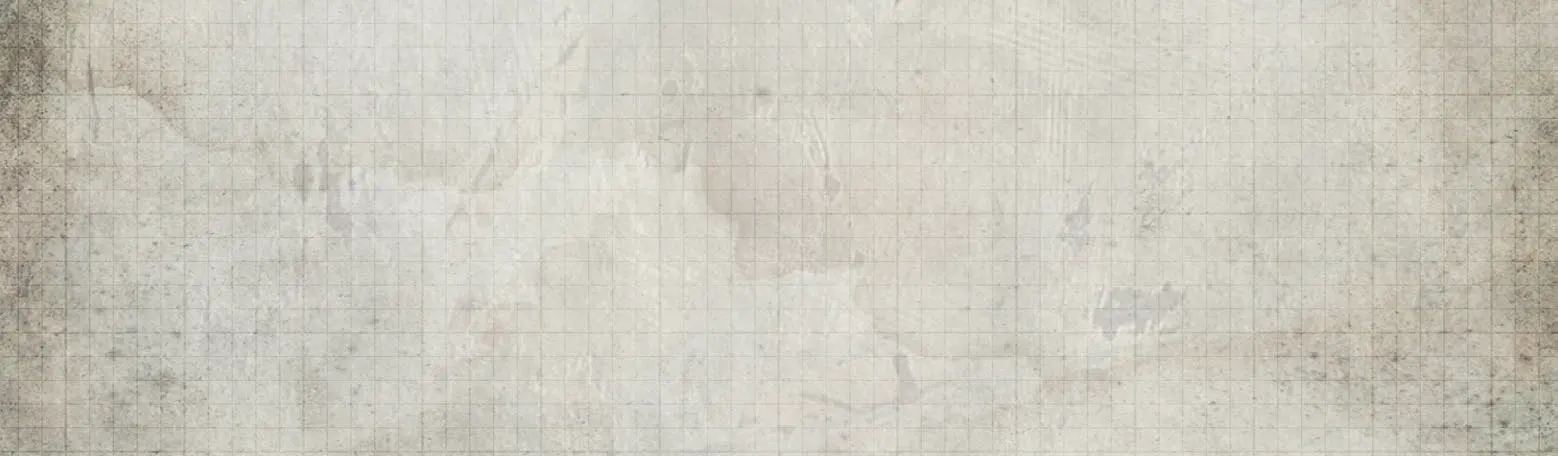
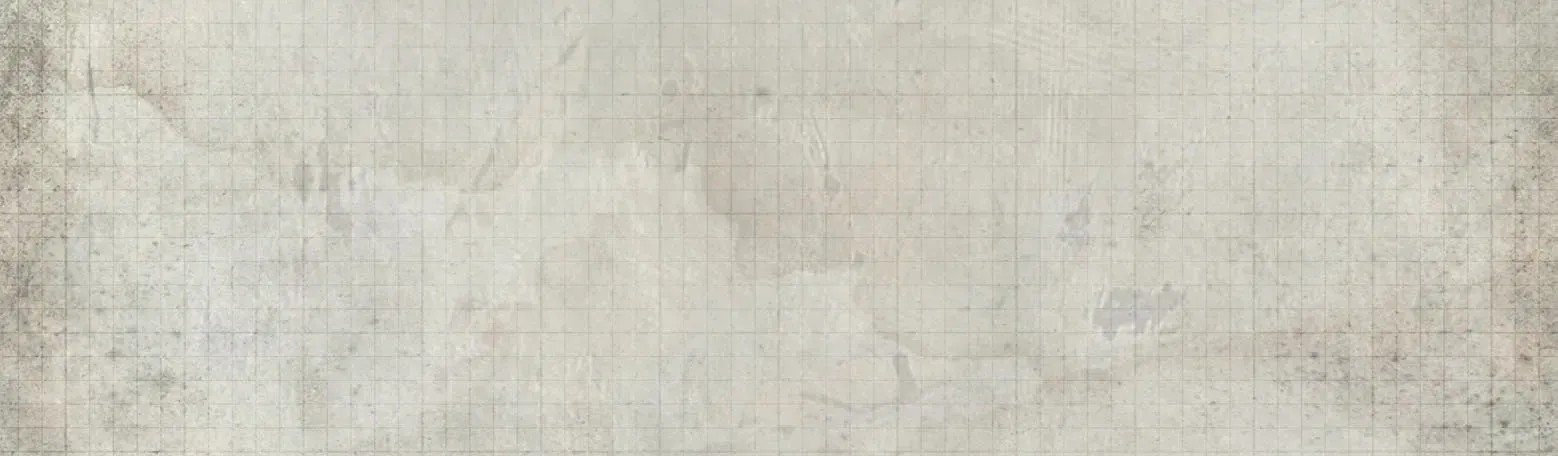
add various embeds, css tweaks, other fixes

diff --git a/style/theme/_var.scss b/style/theme/_var.scss
@@ -497,6 +497,9 @@ body.impmal-scan {
       font-size: var(--font-size-18);
       font-weight: bold;
       color: white;
+      td {
+        color: white;
+      }
     }
 
     tbody {
@@ -538,9 +541,21 @@ body.impmal-scan {
 @mixin box-text() { 
   section.box-text {
     outline: 3px solid var(--impmal-grey);
-    border: 20px solid transparent;
-    border-image: url(./assets/ui/box-corners.webp);
-    border-image-slice: 10% 10%;
+    
+    &:not(.no-corners)
+    {
+      border: 20px solid transparent;
+      border-image: url(./assets/ui/box-corners.webp);
+      border-image-slice: 363 390 445 400;
+      border-image-width: 40px;
+
+    }
+
+    &.no-corners {
+      padding: 20px;
+    }
+
+
     color: white;
     background: url(./assets/ui/box-background.webp) repeat;
     margin: 10px;
@@ -581,9 +596,29 @@ body.impmal-scan {
       background: url(./assets/ui/box-background-light.webp) repeat;
       background-size: contain;
       padding: 5px;
-      border: 20px solid transparent;
-      border-image: url(./assets/ui/box-corners-light.webp);
-      border-image-slice: 10% 10%;
+      box-shadow: 0px 0px 10px  black;
+
+      &:not(.no-corners)
+      {
+        border: 20px solid transparent;
+        border-image: url(./assets/ui/box-corners-light.webp);
+        border-image-slice: 372 427 427 445;
+        border-image-width: 40px;
+        border-image-outset: 3px;
+      }
+
+      &.servo-border {
+        border-image: url(./assets/ui/box-border-servo.webp);
+        border-image-width: 60px;
+        border-image-slice:   110 88 100 84;
+        margin: 20px;
+        border-image-outset: 15px 24px;
+      }
+
+      &.no-corners {
+        padding: 20px;
+      }
+  
 
       &.blue {
         border-image: none;
@@ -593,14 +628,21 @@ body.impmal-scan {
         color: var(--impmal-lightblue)
       }
 
+      &.grid-alt,
       &.grid {
         background: url(./assets/ui/grid-bg.webp) repeat;
+        background-size: contain;
         .box-header,
         h1,h2,h3,h4,h5 {
           color: black;
           font-weight: normal;
           text-align: center;
         }
+      }
+
+      &.grid-alt {
+        background: url(./assets/ui/grid-bg-alt.webp) repeat;
+        background-size: contain;
       }
 
       .box-header {
@@ -756,7 +798,8 @@ body.impmal-scan {
   h6 {
     margin: 0 0 0.5rem;
     font-family: "Novarese";
-    font-size: var(--font-size-18);
+    font-size: var(--font-size-16);
+    color: rgb(52, 150, 151);
   }
 
   .blue {
@@ -770,14 +813,21 @@ body.impmal-scan {
 
 
   section.hook {
-    background-clip: padding-box;
-    padding: 10px;
-    border-top: 20px solid transparent;
-    border-image: url(./assets/ui/hook-top.webp);
-    border-image-slice: 100 0% 0% 0%;
+    // padding: 10px;
+    // border-top: 20px solid transparent;
+    // border-image: url(./assets/ui/hook-top.webp);
+    // border-image-slice: 133 0% 0% 0%;
+    // filter: drop-shadow(5px 5px 8px black);
+    // margin: 10px;
+    // background: url(./assets/ui/hook-bg.webp);
+
+    border-image-source: url(./assets/ui/hook-bg-test.webp);
+    border-image-slice: 55 115 159 115 fill;
+    border-image-width: 20px 40px 20px 40px;
+    padding: 1.5rem 2rem;
     filter: drop-shadow(5px 5px 8px black);
-    margin: 10px;
-    background: url(./assets/ui/hook-bg.webp);
+    margin-bottom: 1rem;
+    
 
     .hook-title {
       font-weight: bold;
@@ -785,6 +835,8 @@ body.impmal-scan {
       text-align: center;
       font-family: "Novarese";
       font-size: var(--font-size-24);
+      color: black;
+
     }
 
   }

diff --git a/src/model/actor/standard.js b/src/model/actor/standard.js
@@ -256,10 +256,10 @@ export class StandardActorModel extends BaseActorModel
         this.parent.update({"system.combat.action" : action}, {showActionText : !effectAdded});
     }
 
-    async applyDamage(value, {ignoreAP=false, location="roll", message=false, opposed, update=true, context={}}={})
+    async applyDamage(value, {ignoreAP=false, location="roll", message=false, opposed, update=true, context={}, traits=null}={})
     {   
         let modifiers = [];
-        let traits = opposed?.attackerTest?.itemTraits;
+        traits = traits ?? opposed?.attackerTest?.itemTraits;
         let locationKey;
         if (typeof location == "string")
         {
@@ -286,6 +286,7 @@ export class StandardActorModel extends BaseActorModel
         // Reassign primitive values that might've changed in the scripts
         value = args.value;
         ignoreAP = args.ignoreAP;
+        penetrating = args.penetrating;
 
         let woundsGained = value;
         let armourRoll;
@@ -308,12 +309,12 @@ export class StandardActorModel extends BaseActorModel
                 }
                 armourValue += armourRoll.total;
             }
+            modifiers.push({value : -armourValue, label : game.i18n.localize("IMPMAL.Protection"), armour : true});
             if (penetrating)
             {
+                modifiers.push({value : Math.min(armourValue, penetrating), label : game.i18n.localize("IMPMAL.Penetrating")});
                 armourValue = Math.max(0, armourValue - Number(penetrating || 0));
-                modifiers.push({value : penetrating, label : game.i18n.localize("IMPMAL.Penetrating"), applied : true});
             }
-            modifiers.push({value : -armourValue, label : game.i18n.localize("IMPMAL.Protection"), armour : true});
             if (traits?.has("ineffective"))
             {
                 modifiers.push({value : -armourValue, label : game.i18n.localize("IMPMAL.Ineffective"), armour : true});
@@ -386,7 +387,7 @@ export class StandardActorModel extends BaseActorModel
         {
             await this.parent.update(updateData);
         }
-        if (traits?.has("rend"))
+        if (traits?.has("rend") && woundsGained > 0)
         {
             damageData.rend = traits.has("rend").value;
             // TODO: this isn't supported if update flag is false

diff --git a/src/model/actor/vehicle.js b/src/model/actor/vehicle.js
@@ -261,13 +261,31 @@ export class VehicleModel extends BaseActorModel
             })
         }
 
-        let args = {actor : this.parent, value, ignoreAP, modifiers, locationData: {direction: location}, opposed, traits, vehicle : true, context};
+        let penetrating = traits?.has("penetrating")?.value || 0;
+        let args = {actor : this.parent, value, ignoreAP, penetrating, modifiers, locationData: {direction: location}, opposed, traits, vehicle : true, context};
         await Promise.all(opposed?.attackerTest?.actor.runScripts("preApplyDamage", args) || []);
         await Promise.all(opposed?.attackerTest?.item?.runScripts?.("preApplyDamage", args) || []);
         await Promise.all(this.parent.runScripts("preTakeDamage", args)); 
         // Reassign primitive values that might've changed in the scripts
         let damage = args.value;
         ignoreAP = args.ignoreAP;
+        penetrating = args.penetrating;
+
+
+        let armourValue = this.combat.armour[location] || 0;
+        if (!ignoreAP)
+        {
+            modifiers.push({value : -armourValue, label : game.i18n.localize("IMPMAL.Protection"), armour : true});
+
+            if (penetrating)
+            {
+                modifiers.push({value : Math.min(armourValue, penetrating), label : game.i18n.localize("IMPMAL.Penetrating")});
+            }
+            if (traits?.has("ineffective"))
+            {
+                modifiers.push({value : -armourValue, label : game.i18n.localize("IMPMAL.Ineffective"), armour : true});
+            }
+        }
 
         for (let modifier of modifiers)
         {
@@ -282,9 +300,9 @@ export class VehicleModel extends BaseActorModel
 
         let excess = 0;
         let critical = false;
-        if (damage > this.combat.armour[location])
+        if (damage > 0)
         {
-            excess = damage - this.combat.armour[location];
+            excess = damage;
             critical = true;
         }
 

diff --git a/src/model/item/weapon.js b/src/model/item/weapon.js
@@ -52,6 +52,12 @@ export class WeaponModel extends EquippableItemModel
     async _onUpdate(data, options, user)
     {
         await super._onUpdate(data, options, user);
+
+        if (game.user.id != user)
+        {
+            return;
+        }
+
         let updateData = {}
         // If ammo changed, also update current mag value
         // Can't be in _preUpdate because need to check ammo quantity, ammo.document would not ready 
@@ -167,7 +173,7 @@ export class WeaponModel extends EquippableItemModel
         }
         if (this.category == "launcher")
         {
-            return items.filter(i => i.type == "weapon" && i.system.spec == "ordnance" && i.system.category == "grenadesExplosives");
+            return items.filter(i => i.type == "weapon" && ["ordnance", "thrown"].includes(i.system.spec) && i.system.category == "grenadesExplosives");
         }
         else 
         {

diff --git a/src/model/item/modification.js b/src/model/item/modification.js
@@ -38,6 +38,22 @@ export class ModificationModel extends PhysicalItemModel
         return data;
     }
 
+    async toEmbed(config, options)
+    {
+
+        let html = `
+            <h4>@UUID[${this.parent.uuid}]{${config.label || this.parent.name}}</h4>
+            ${this.notes.player}
+            ${game.user.isGM ? this.notes.gm : ""}
+        `;
+
+
+        let div = document.createElement("div");
+        div.style = config.style;
+        div.innerHTML = await foundry.applications.ux.TextEditor.implementation.enrichHTML(html, {relativeTo : this.parent, async: true, secrets : options.secrets});
+        return div;
+    }
+
     shouldTransferEffect(effect)
     {
         return super.shouldTransferEffect(effect);// && this.onDocument?.system?.shouldTransferEffect(effect);

diff --git a/src/system/tests/opposed-result.js b/src/system/tests/opposed-result.js
@@ -148,10 +148,13 @@ export class OpposedTestResult
         {
             case "weapon" : 
                 damage = this._computeWeaponDamage(item, {attackerTest, defenderTest}) + (add || 0) + attackerTest.result.additionalDamage;
+                break;
             case "trait" : 
                 damage = this._computeTraitDamage(item, {attackerTest, defenderTest}) + (add || 0) + attackerTest.result.additionalDamage;
+                break;
             case "power" : 
                 damage = this._computePowerDamage(item, {attackerTest, defenderTest}) + (add || 0);
+                break;
         }
         let args = {damage, test: attackerTest, item, defenderTest, tooltips: this._tooltips}
         attackerTest.actor.runScripts("computeDamageAttacker", args);

diff --git a/src/model/item/protection.js b/src/model/item/protection.js
@@ -130,4 +130,20 @@ export class ProtectionModel extends EquippableItemModel
             this.slots.list.forEach(i => i.relative = this.slots.relative);
         }
     }
+
+    async toEmbed(config, options)
+    {
+
+        let html = `
+            <h4>@UUID[${this.parent.uuid}]{${config.label || this.parent.name}}</h4>
+            ${this.notes.player}
+            ${game.user.isGM ? this.notes.gm : ""}
+        `;
+
+
+        let div = document.createElement("div");
+        div.style = config.style;
+        div.innerHTML = await foundry.applications.ux.TextEditor.implementation.enrichHTML(html, {relativeTo : this.parent, async: true, secrets : options.secrets});
+        return div;
+    }
 }

diff --git a/src/model/item/forceField.js b/src/model/item/forceField.js
@@ -72,4 +72,20 @@ export class ForceFieldModel extends EquippableItemModel
         data.tags = data.tags.concat(this.traits.htmlArray);
         return data;
     }
+
+    async toEmbed(config, options)
+    {
+
+        let html = `
+            <h4>@UUID[${this.parent.uuid}]{${config.label || this.parent.name}}</h4>
+            ${this.notes.player}
+            ${game.user.isGM ? this.notes.gm : ""}
+        `;
+
+
+        let div = document.createElement("div");
+        div.style = config.style;
+        div.innerHTML = await foundry.applications.ux.TextEditor.implementation.enrichHTML(html, {relativeTo : this.parent, async: true, secrets : options.secrets});
+        return div;
+    }
 }

diff --git a/src/model/item/equipment.js b/src/model/item/equipment.js
@@ -44,6 +44,22 @@ export class EquipmentModel extends EquippableItemModel
     }
 
 
+    async toEmbed(config, options)
+    {
+
+        let html = `
+            <h4>@UUID[${this.parent.uuid}]{${config.label || this.parent.name}}</h4>
+            ${this.notes.player}
+            ${game.user.isGM ? this.notes.gm : ""}
+        `;
+
+
+        let div = document.createElement("div");
+        div.style = config.style;
+        div.innerHTML = await foundry.applications.ux.TextEditor.implementation.enrichHTML(html, {relativeTo : this.parent, async: true, secrets : options.secrets});
+        return div;
+    }
+
     async summaryData()
     {
         let data = await super.summaryData();

diff --git a/src/model/actor/base.js b/src/model/actor/base.js
@@ -123,7 +123,10 @@ export class BaseActorModel extends BaseWarhammerActorModel
             {
                 image = actor.prototypeToken.texture.src;
             }
-            html += `<div class="journal-image centered" ><img src="${image}" width="200" height="200"></div>`
+            if (!config.noImage)
+            {
+                html += `<div class="journal-image centered" ><img src="${image}" width="200" height="200"></div>`
+            }
             html += `<p style="text-align:center">@UUID[${actor.uuid}]{${config.label || actor.name}}</p>`
             if (config.description == "bottom")
             {

diff --git a/src/model/message/opposed.js b/src/model/message/opposed.js
@@ -142,7 +142,7 @@ export class OpposedTestMessageModel extends WarhammerMessageModel
             this.renderContent({"system.applied" : data})
             if (data.woundsGained > 0 && attackerTest.damageEffects.length)
             {
-                this.target.actor.applyEffect({effectUuids : attackerTest.damageEffects.map(i => i.uuid), messageId : this.attackerMessageId});
+                this.target.actor.applyEffect({effects : attackerTest.damageEffects, messageId : this.attackerMessageId});
             }
         })
     }

diff --git a/src/model/item/talent.js b/src/model/item/talent.js
@@ -64,7 +64,10 @@ export class TalentModel extends StandardItemModel
     async _onCreate(data, options, user) 
     {
         await super._onCreate(data, options, user);
-        this.handleEffectSelection();
+        if (game.user.id == user)
+        {
+            this.handleEffectSelection();
+        }
     }
 
     computeDerived()
